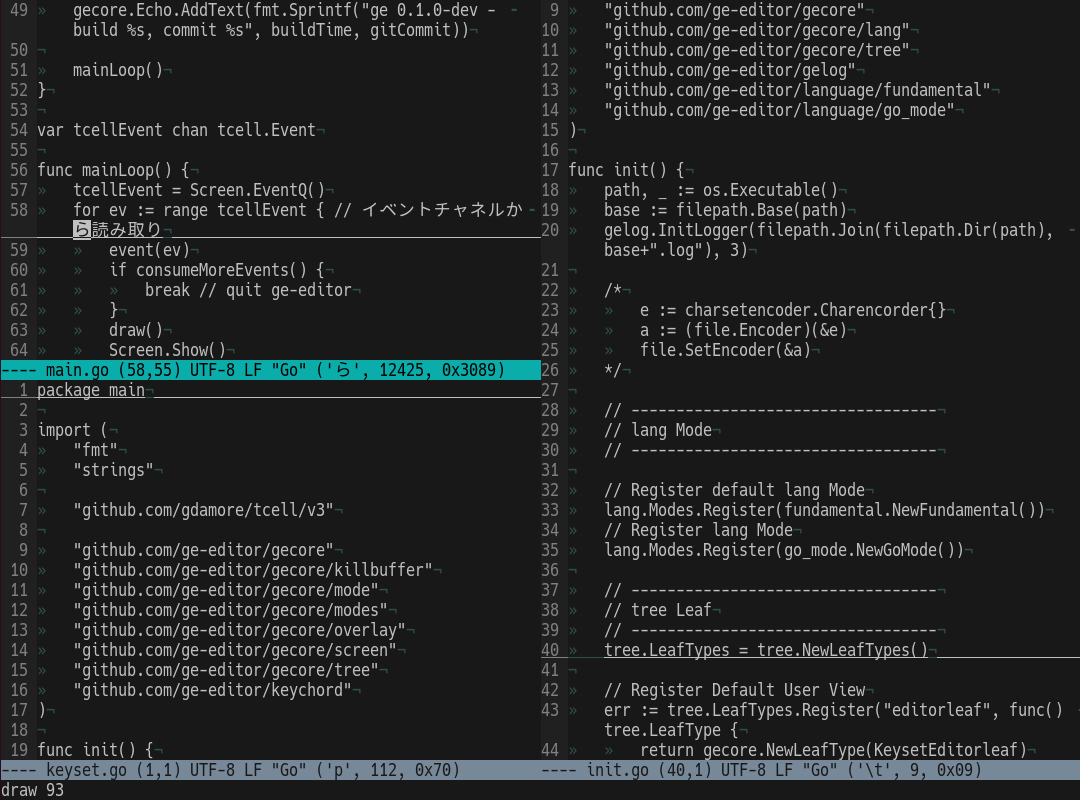
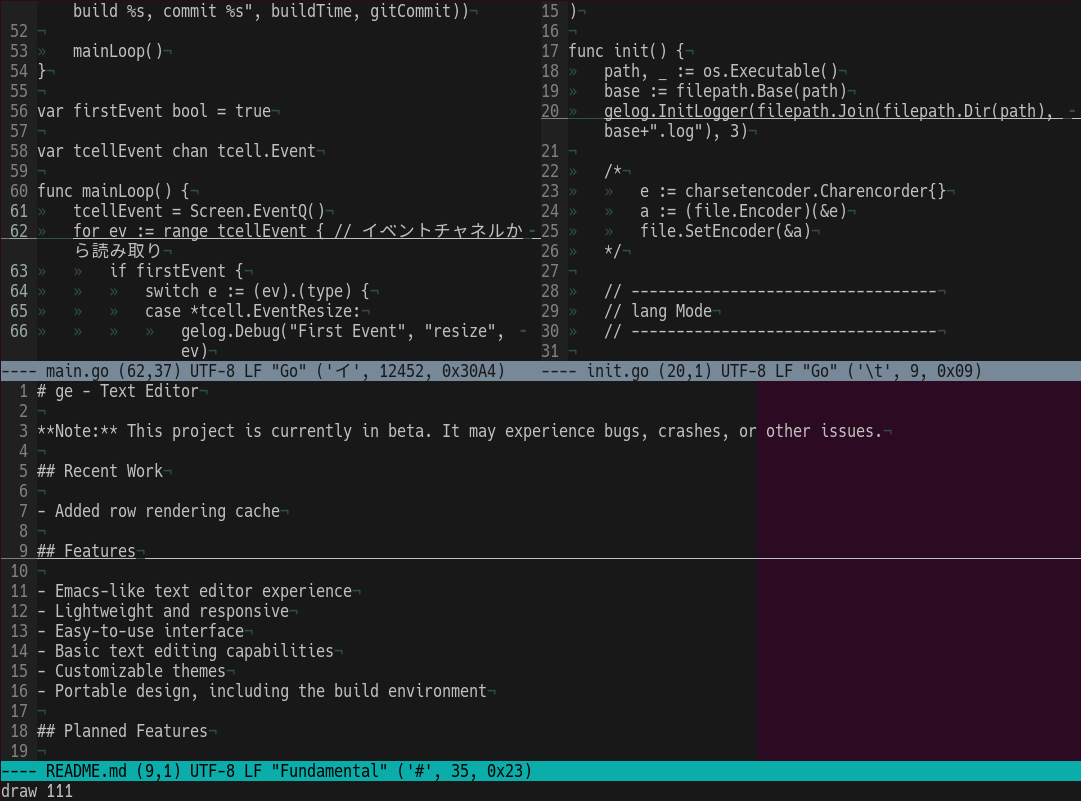
Update editorleaf to v0.1.2

diff --git a/main.go b/main.go
@@ -53,11 +53,24 @@ func main() {
 	mainLoop()
 }
 
+var firstEvent bool = true
+
 var tcellEvent chan tcell.Event
 
 func mainLoop() {
 	tcellEvent = Screen.EventQ()
 	for ev := range tcellEvent { // イベントチャネルから読み取り
+		if firstEvent {
+			switch e := (ev).(type) {
+			case *tcell.EventResize:
+				gelog.Debug("First Event", "resize", ev)
+			case *tcell.EventKey:
+				firstEvent = false
+				gelog.Debug("First Event", "key", e.Key(), "str", e.Str())
+			default:
+				gelog.Debug("First Event", "default", ev)
+			}
+		}
 		event(ev)
 		if consumeMoreEvents() {
 			break // quit ge-editor